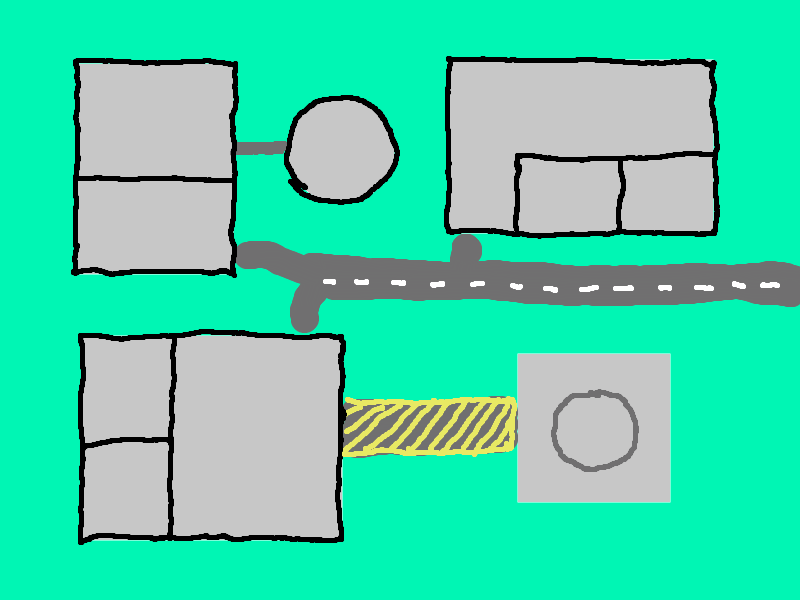
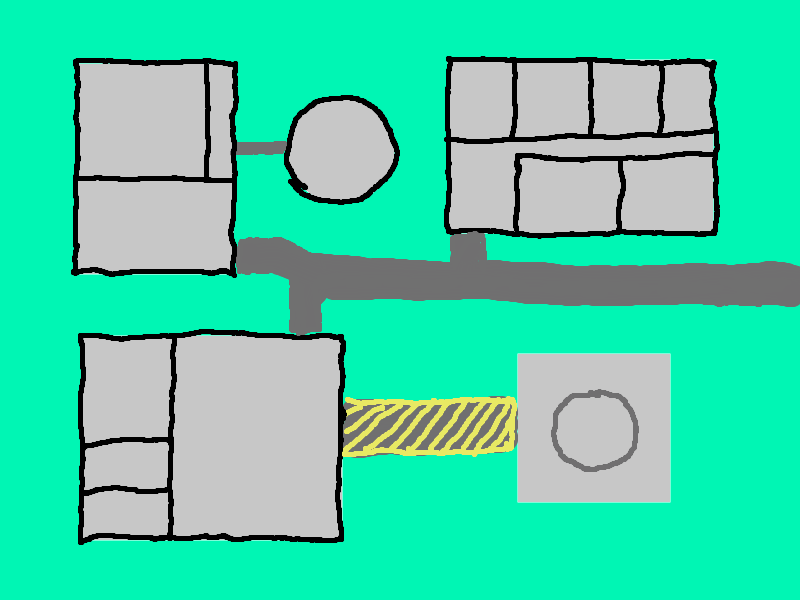
Added map screen

diff --git a/scenes/map.js b/scenes/map.js
@@ -1,0 +1,71 @@
+var Map = new Phaser.Class({
+    Extends: Phaser.Scene,
+    initialize: function() {
+        Phaser.Scene.call(this, { 'key': 'Map' });
+    },
+    init: function() {},
+    preload: function() {
+      this.load.image('mapScreen', './assets/mapScreen.png');
+      this.load.image('boxIcon', './assets/boxIcon.png');
+      this.load.image('ceoIcon', './assets/ceoIcon.png');
+      this.load.image('hereIcon', './assets/hereIcon.png');
+      this.load.image('labIcon', './assets/labIcon.png');
+      this.load.image('scpIcon', './assets/scpIcon.png');
+      this.load.image('serversIcon', './assets/serversIcon.png');
+      this.load.image('telescopeIcon', './assets/telescopeIcon.png');
+      this.load.image('workshopIcon', './assets/workshopIcon.png');
+    },
+    create: function() {
+      this.add.image(400, 300, 'mapScreen');
+
+      this.storageRoom = this.add.sprite(127, 390, 'boxIcon').setInteractive();
+      this.storageRoom.on('pointerover', function(){this.storageRoom.setTint(0xff8f00);}, this)
+      this.storageRoom.on('pointerout', function(){this.storageRoom.setTint(0xffffff);}, this)
+      this.storageRoom.on('pointerdown', function(){
+
+      }, this);
+
+      this.ceoRoom = this.add.sprite(567, 198, 'hereIcon').setInteractive();
+      this.ceoRoom.on('pointerover', function(){this.ceoRoom.setTint(0xff8f00);}, this)
+      this.ceoRoom.on('pointerout', function(){this.ceoRoom.setTint(0xffffff);}, this)
+      this.ceoRoom.on('pointerdown', function(){
+
+      }, this);
+
+      this.labRoom = this.add.sprite(140, 120, 'labIcon').setInteractive();
+      this.labRoom.on('pointerover', function(){this.labRoom.setTint(0xff8f00);}, this)
+      this.labRoom.on('pointerout', function(){this.labRoom.setTint(0xffffff);}, this)
+      this.labRoom.on('pointerdown', function(){
+
+      }, this);
+
+      this.containment = this.add.sprite(155, 222, 'scpIcon').setInteractive();
+      this.containment.on('pointerover', function(){this.containment.setTint(0xff8f00);}, this)
+      this.containment.on('pointerout', function(){this.containment.setTint(0xffffff);}, this)
+      this.containment.on('pointerdown', function(){
+
+      }, this);
+
+      this.observatory = this.add.sprite(340, 150, 'telescopeIcon').setInteractive();
+      this.observatory.on('pointerover', function(){this.observatory.setTint(0xff8f00);}, this)
+      this.observatory.on('pointerout', function(){this.observatory.setTint(0xffffff);}, this)
+      this.observatory.on('pointerdown', function(){
+
+      }, this);
+
+      this.workshop = this.add.sprite(255, 435, 'workshopIcon').setInteractive();
+      this.workshop.on('pointerover', function(){this.workshop.setTint(0xff8f00);}, this)
+      this.workshop.on('pointerout', function(){this.workshop.setTint(0xffffff);}, this)
+      this.workshop.on('pointerdown', function(){
+
+      }, this);
+
+      this.serverRoom = this.add.sprite(667, 196, 'serversIcon').setInteractive();
+      this.serverRoom.on('pointerover', function(){this.serverRoom.setTint(0xff8f00);}, this)
+      this.serverRoom.on('pointerout', function(){this.serverRoom.setTint(0xffffff);}, this)
+      this.serverRoom.on('pointerdown', function(){
+
+      }, this);
+    },
+    update: function() {}
+});

diff --git a/index.html b/index.html
@@ -6,6 +6,7 @@
     <script src="//cdn.jsdelivr.net/npm/phaser@3.11.0/dist/phaser.js"></script>
     <script src="scenes/title.js"></script>
     <script src="scenes/room.js"></script>
+    <script src="scenes/map.js"></script>
     <style type="text/css">
         body {
             margin: 0;
@@ -23,7 +24,7 @@
     parent: "game",
     width: 800,
     height: 600,
-    scene: [ Title, Room ]
+    scene: [ Title, Room, Map ]
   };
 
   const game = new Phaser.Game(phaserConfig);

diff --git a/scenes/room.js b/scenes/room.js
@@ -38,7 +38,7 @@ var Room = new Phaser.Class({
       this.map.on('pointerover', function(){this.map.setTint(0xff8f00);}, this)
       this.map.on('pointerout', function(){this.map.setTint(0xffffff);}, this)
       this.map.on('pointerdown', function(){
-        this.nextDialogue(0);
+        this.scene.start("Map");
       }, this);
       this.map.visible = false;
 
